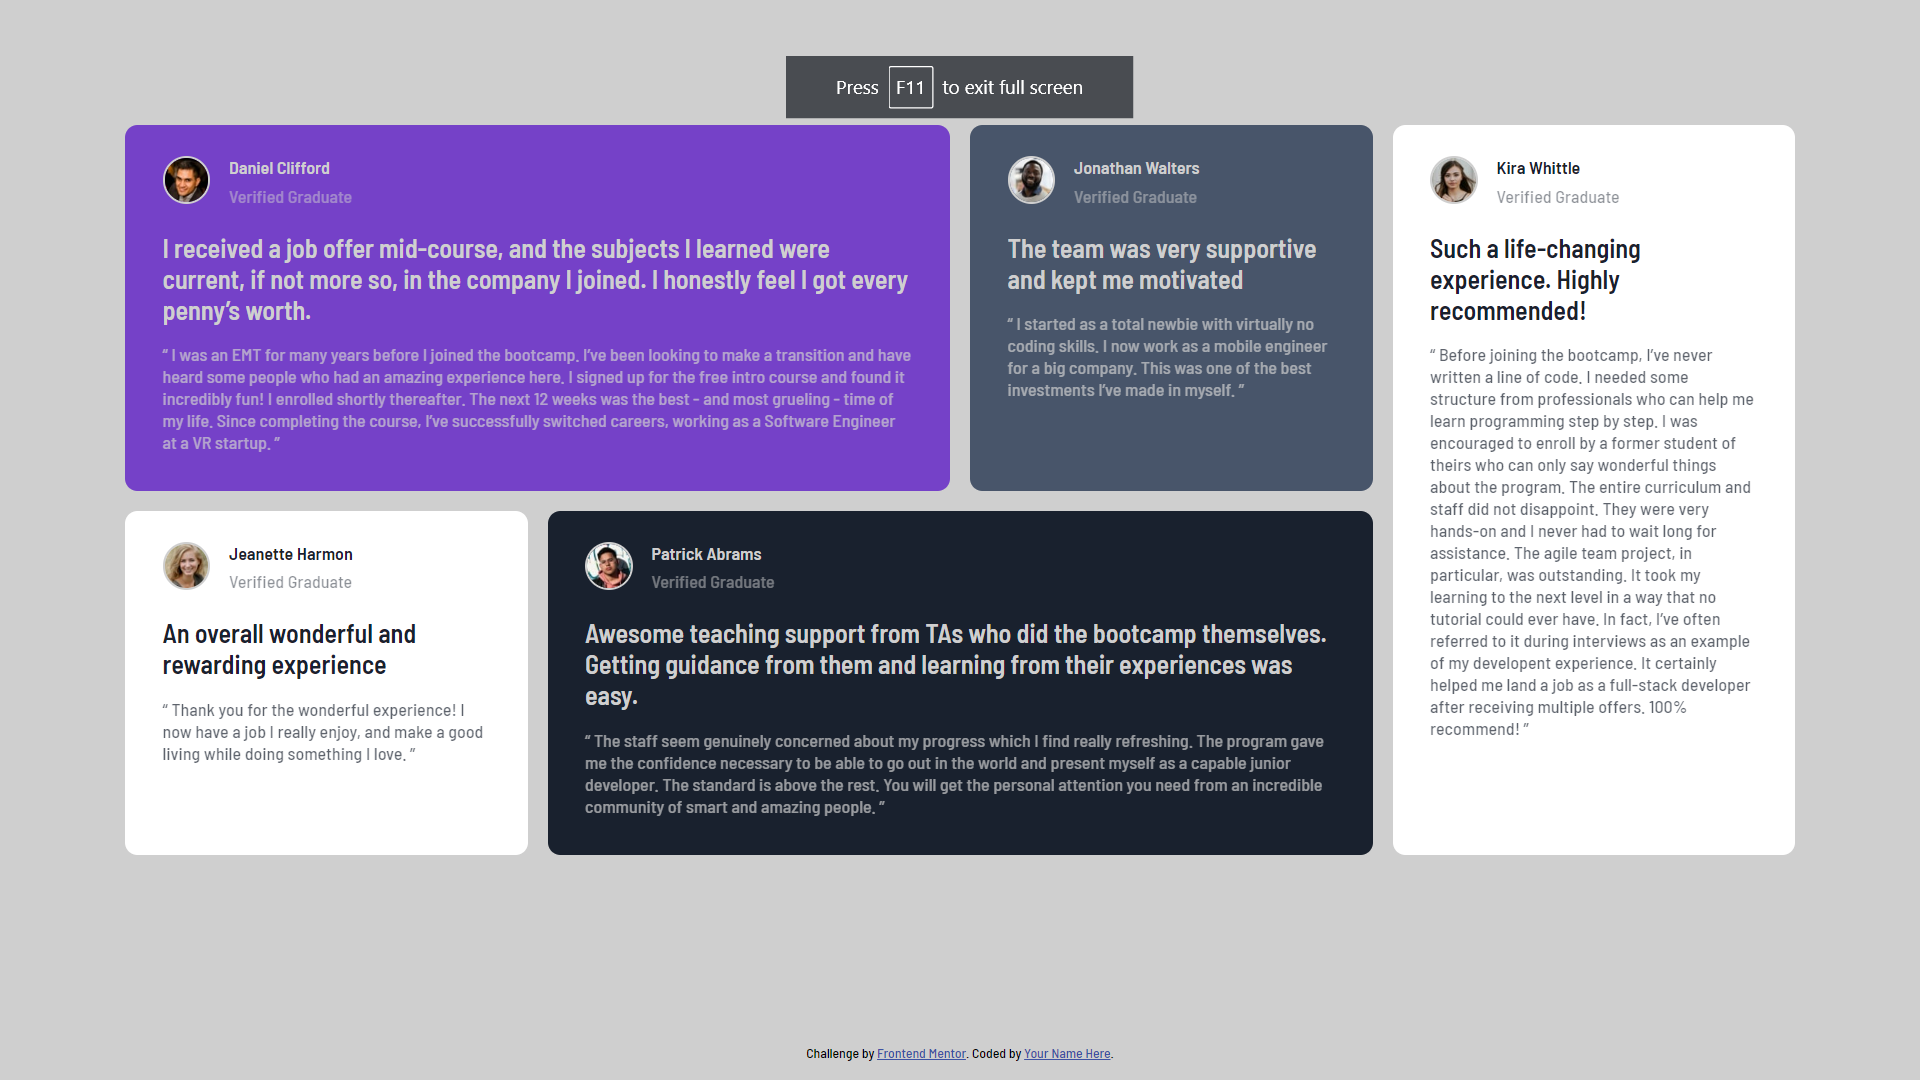
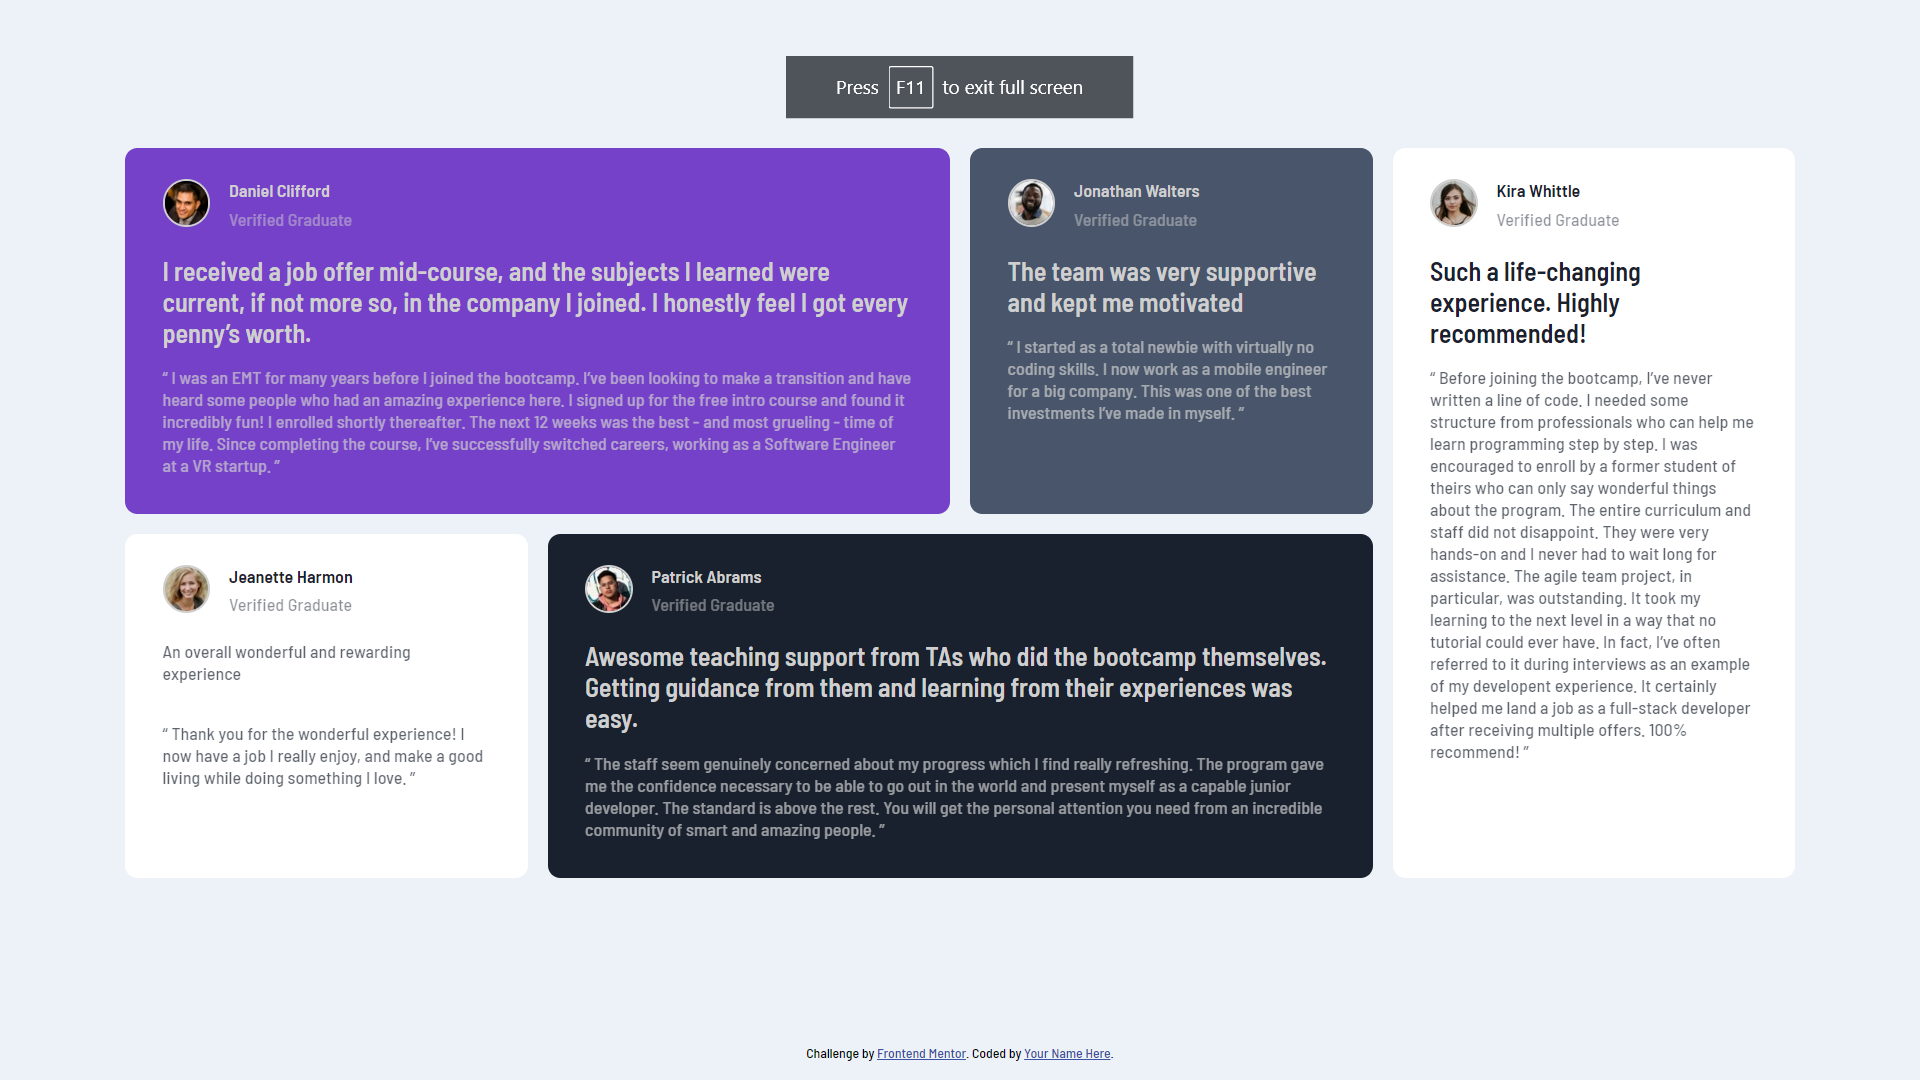
updated Sementic HTML + BG color
1- updated Sementic HTML for better accessibility
2- updated background color

diff --git a/index.html b/index.html
@@ -18,118 +18,128 @@
 </head>
 
 <body>
+  <header>
+    <nav>
 
-  <section>  <!--testimonials-grid-->
+    </nav>
+  </header>
 
-    <div class="tes-1">
-      <img src="images/image-daniel.jpg" alt="Daniel">
-      <h5>
-        Daniel Clifford
-      </h5>
-      <h6>
-        Verified Graduate
-      </h6>
+  <main>
+    <section> <!--testimonials-grid-->
 
-      <h1>
-        I received a job offer mid-course, and the subjects I learned were current, if not more so,
-        in the company I joined. I honestly feel I got every penny’s worth.
-      </h1>
+      <div class="tes-1">
+        <img src="images/image-daniel.jpg" alt="Daniel">
+        <h1>
+          Daniel Clifford
+        </h1>
+        <h2>
+          Verified Graduate
+        </h2>
 
-      <h2>
-        “ I was an EMT for many years before I joined the bootcamp. I’ve been looking to make a
-        transition and have heard some people who had an amazing experience here. I signed up
-        for the free intro course and found it incredibly fun! I enrolled shortly thereafter.
-        The next 12 weeks was the best - and most grueling - time of my life. Since completing
-        the course, I’ve successfully switched careers, working as a Software Engineer at a VR startup. ”
-      </h2>
-    </div>
+        <h3>
+          I received a job offer mid-course, and the subjects I learned were current, if not more so,
+          in the company I joined. I honestly feel I got every penny’s worth.
+        </h3>
 
-    <div class="tes-2">
-      <img src="images/image-jonathan.jpg" alt="Jonathan">
-      <h5>
-        Jonathan Walters
-      </h5>
-      <h6>
-        Verified Graduate
-      </h6>
+        <p>
+          “ I was an EMT for many years before I joined the bootcamp. I’ve been looking to make a
+          transition and have heard some people who had an amazing experience here. I signed up
+          for the free intro course and found it incredibly fun! I enrolled shortly thereafter.
+          The next 12 weeks was the best - and most grueling - time of my life. Since completing
+          the course, I’ve successfully switched careers, working as a Software Engineer at a VR startup. ”
+        </p>
+      </div>
 
-      <h1>
-        The team was very supportive and kept me motivated
-      </h1>
+      <div class="tes-2">
+        <img src="images/image-jonathan.jpg" alt="Jonathan">
+        <h1>
+          Jonathan Walters
+        </h1>
+        <h2>
+          Verified Graduate
+        </h2>
 
-      <h2>
-        “ I started as a total newbie with virtually no coding skills. I now work as a mobile engineer
-        for a big company. This was one of the best investments I’ve made in myself. ”
-      </h2>
-    </div>
+        <h3>
+          The team was very supportive and kept me motivated
+        </h3>
 
-    <div class="tes-3">
-      <img src="images/image-jeanette.jpg" alt="Jeanette">
-      <h5>
-        Jeanette Harmon
-      </h5>
-      <h6>
-        Verified Graduate
-      </h6>
+        <p>
+          “ I started as a total newbie with virtually no coding skills. I now work as a mobile engineer
+          for a big company. This was one of the best investments I’ve made in myself. ”
+        </p>
+      </div>
 
-      <h1>
-        An overall wonderful and rewarding experience
-      </h1>
+      <div class="tes-3">
+        <img src="images/image-jeanette.jpg" alt="Jeanette">
+        <h1>
+          Jeanette Harmon
+        </h1>
+        <h2>
+          Verified Graduate
+        </h2>
 
-      <h2>
-        “ Thank you for the wonderful experience! I now have a job I really enjoy, and make a good living
-        while doing something I love. ”
-      </h2>
-    </div>
+        <p>
+          An overall wonderful and rewarding experience
+          </h3>
 
-    <div class="tes-4">
-      <img src="images/image-patrick.jpg" alt="Patrick">
-      <h5>
-        Patrick Abrams
-      </h5>
-      <h6>
-        Verified Graduate
-      </h6>
+        <p>
+          “ Thank you for the wonderful experience! I now have a job I really enjoy, and make a good living
+          while doing something I love. ”
+        </p>
+      </div>
 
-      <h1>
-        Awesome teaching support from TAs who did the bootcamp themselves. Getting guidance from them and learning from
-        their experiences was easy.
-      </h1>
+      <div class="tes-4">
+        <img src="images/image-patrick.jpg" alt="Patrick">
+        <h1>
+          Patrick Abrams
+        </h1>
+        <h2>
+          Verified Graduate
+        </h2>
 
-      <h2>
-        “ The staff seem genuinely concerned about my progress which I find really refreshing. The program
-        gave me the confidence necessary to be able to go out in the world and present myself as a capable
-        junior developer. The standard is above the rest. You will get the personal attention you need from
-        an incredible community of smart and amazing people. ”
-      </h2>
-    </div>
+        <h3>
+          Awesome teaching support from TAs who did the bootcamp themselves. Getting guidance from them and learning
+          from
+          their experiences was easy.
+        </h3>
 
-    <div class="tes-5">
-      <img src="images/image-kira.jpg" alt="Kira">
-      <h5>
-        Kira Whittle
-      </h5>
-      <h6>
-        Verified Graduate
-      </h6>
+        <p>
+          “ The staff seem genuinely concerned about my progress which I find really refreshing. The program
+          gave me the confidence necessary to be able to go out in the world and present myself as a capable
+          junior developer. The standard is above the rest. You will get the personal attention you need from
+          an incredible community of smart and amazing people. ”
+        </p>
+      </div>
 
-      <h1>
-        Such a life-changing experience. Highly recommended!
-      </h1>
+      <div class="tes-5">
+        <img src="images/image-kira.jpg" alt="Kira">
+        <h1>
+          Kira Whittle
+        </h1>
+        <h2>
+          Verified Graduate
+        </h2>
 
-      <h2>
-        “ Before joining the bootcamp, I’ve never written a line of code. I needed some structure from
-        professionals who can help me learn programming step by step. I was encouraged to enroll by a former
-        student of theirs who can only say wonderful things about the program. The entire curriculum and staff
-        did not disappoint. They were very hands-on and I never had to wait long for assistance. The agile team
-        project, in particular, was outstanding. It took my learning to the next level in a way that no tutorial
-        could ever have. In fact, I’ve often referred to it during interviews as an example of my developent
-        experience. It certainly helped me land a job as a full-stack developer after receiving multiple offers.
-        100% recommend! ”
-      </h2>
-    </div>
+        <h3>
+          Such a life-changing experience. Highly recommended!
+        </h3>
 
-  </section>
+        <p>
+          “ Before joining the bootcamp, I’ve never written a line of code. I needed some structure from
+          professionals who can help me learn programming step by step. I was encouraged to enroll by a former
+          student of theirs who can only say wonderful things about the program. The entire curriculum and staff
+          did not disappoint. They were very hands-on and I never had to wait long for assistance. The agile team
+          project, in particular, was outstanding. It took my learning to the next level in a way that no tutorial
+          could ever have. In fact, I’ve often referred to it during interviews as an example of my developent
+          experience. It certainly helped me land a job as a full-stack developer after receiving multiple offers.
+          100% recommend! ”
+        </p>
+      </div>
+
+    </section>
+
+  </main>
+
 
 
   <footer>

diff --git a/css/styles.css b/css/styles.css
@@ -1,6 +1,17 @@
+header {
+    margin: 0;
+    padding: 0;
+}
+
+
+nav {
+    margin: 0;
+    padding: 0;
+}
+
 body {
     font-family: 'Barlow Semi Condensed', sans-serif;
-    background-color: hsl(0, 0%, 81%);
+    background-color: hsl(210, 46%, 95%);
     margin: 0;
     padding: 0;
     min-height: 100vh;
@@ -15,13 +26,13 @@ section {
     gap: 1.5em;
 }
 
-h5 {
+h1 {
     font-weight: 600;
     font-size: 0.9rem;
     margin: 25px 0 5px 0;
 }
 
-h6 {
+h2 {
     font-weight: 500;
     opacity: 50%;
     font-size: 0.9rem;
@@ -36,13 +47,13 @@ div img {
     border: 2px solid hsl(0, 0%, 81%);
 }
 
-h1 {
+h3 {
     font-weight: 600;
     font-size: 1.3rem;
     margin: 0 30px 15px 30px;
 }
 
-h2 {
+p {
     font-weight: 500;
     opacity: 70%;
     font-size: 0.9rem;
